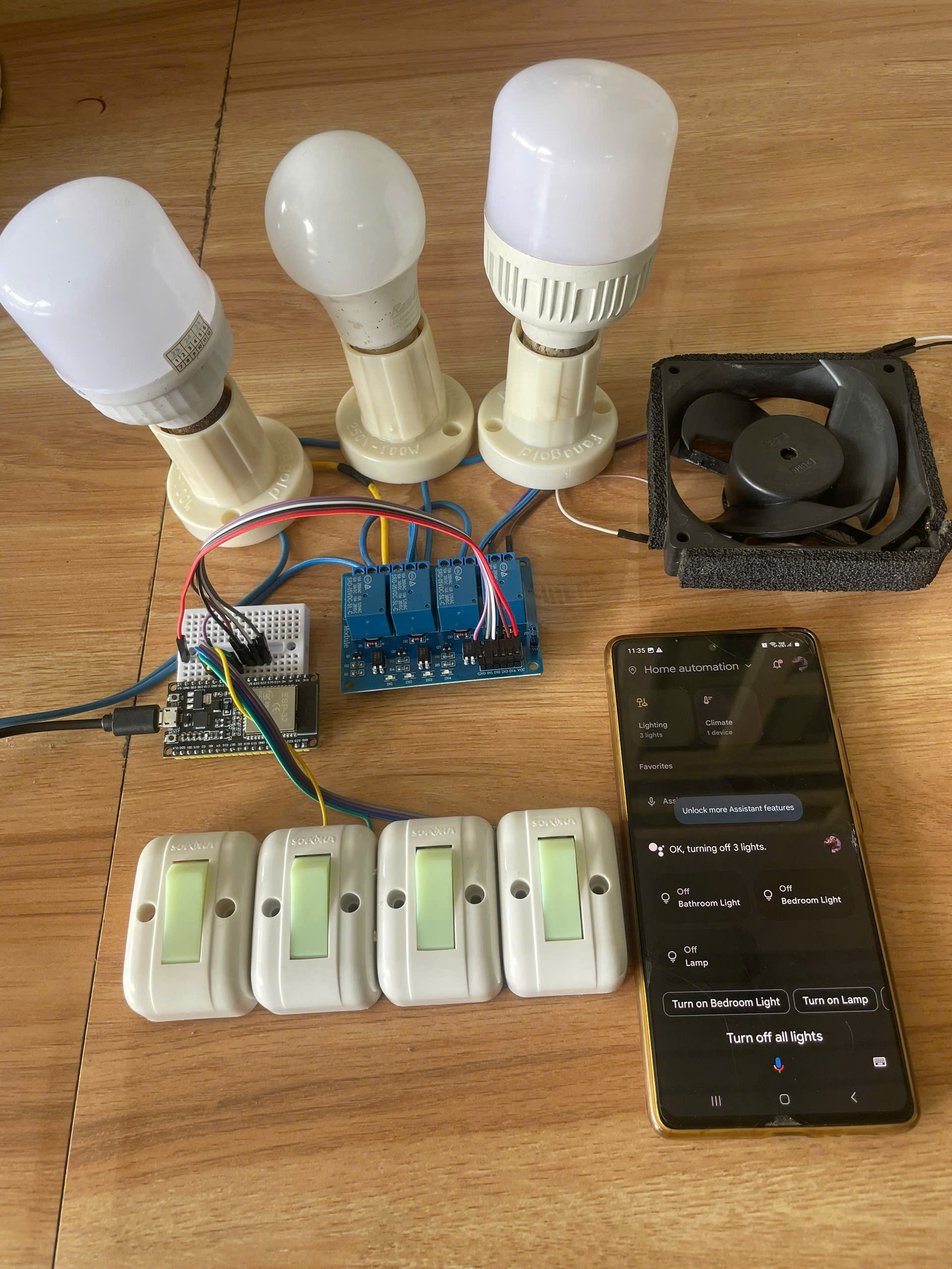
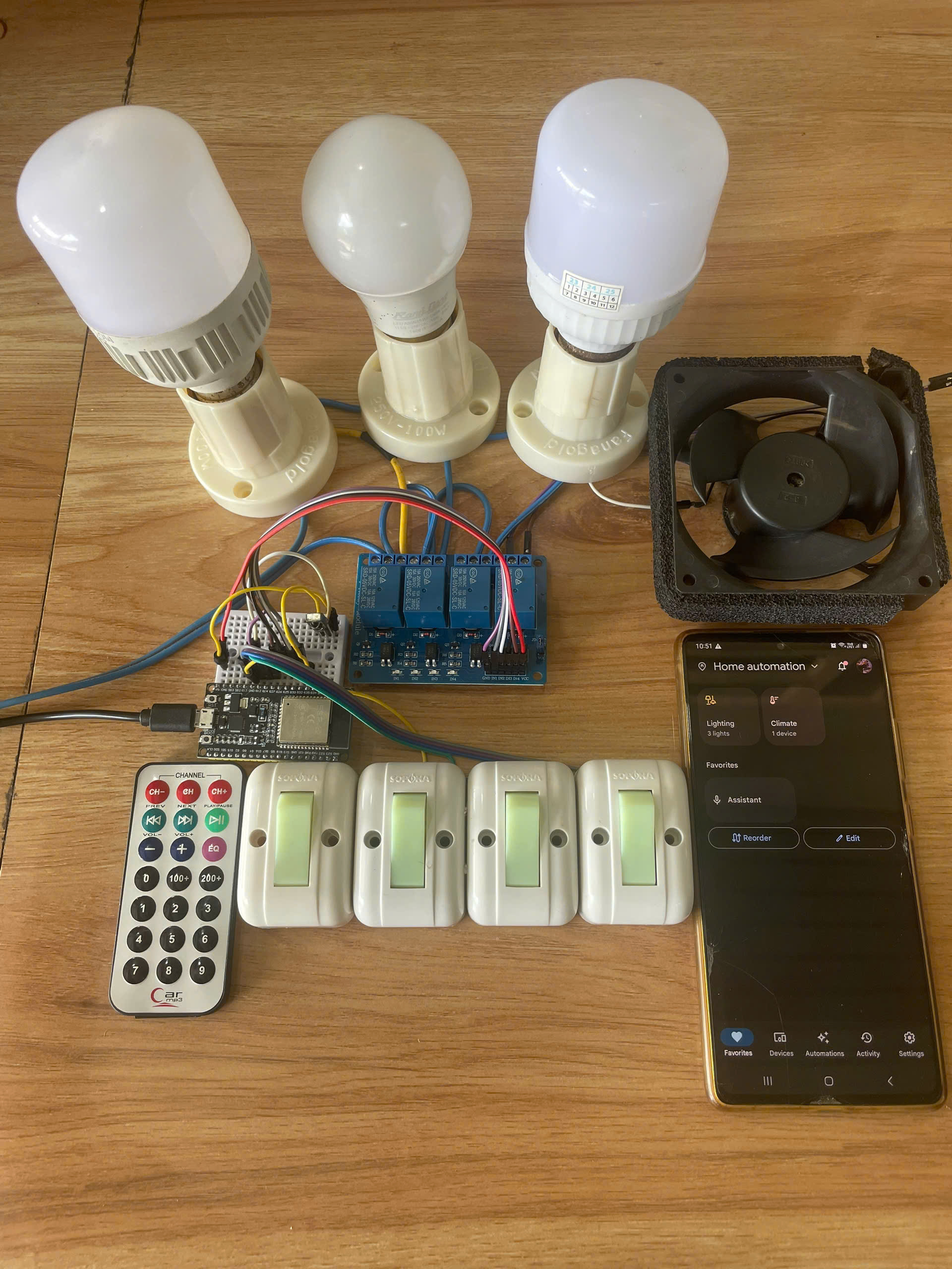
Add infrared remote control feature

diff --git a/home-automation-with-google-assistant/README.md b/home-automation-with-google-assistant/README.md
@@ -5,7 +5,7 @@
 > - Remote control via Arduino IoT Cloud
 > - Manual control via physical switches
 > - Voice control using Google Assistant
-
+> - Remote control via Infrared
 ---
 
 ## 🚀 Features
@@ -14,7 +14,7 @@
 - ✅ Real-time state sync between Arduino IoT Cloud and Google Assistant.
 - ✅ Manual override supported without desynchronizing the cloud.
 - ✅ Seamless integration with Google Home.
-
+- ✅ Integrated infrared remote control.
 ---
 
 ## 🔧 Hardware Used
@@ -24,6 +24,7 @@
 | ESP32 Dev Module      | 1        |
 | 4-Channel Relay Module| 1        |
 | Switch                | 4        |
+| Remote control + IR Receiver 1838   | 1        |
 | 5V Power Supply (≥2A) | 1        |
 | Wires, Breadboard     | Optional |
 
@@ -57,11 +58,11 @@ You can say commands like:
 
 ## 🔗 Demo
 
-📽 [Watch demo video here](https://drive.google.com/file/d/1Mt9BZTUqXCrcm7yEpY2803BONbBJRyb7/view?usp=sharing)
+📽 [Watch demo video here](https://drive.google.com/file/d/1BswK-0hDOlqDYGCL6y7EtMECofskj8xD/view?usp=sharing)
 
 <div>
 <img src="dashboard.jpg"  alt="dashboard" height=400 width=200>
-<img src="circuit.jpg"  alt="circuit" height=400 width=300>
+<img src="circuit.jpg"  alt="circuit" height=400 width=330>
 </div>
 
 ---
@@ -96,7 +97,6 @@ You can say commands like:
 - Add DHT11 for auto fan control based on temperature
 - Add light sensor to auto control lights
 - Display device status on an LCD
-- Integrate infrared remote control
 
 ---
 
